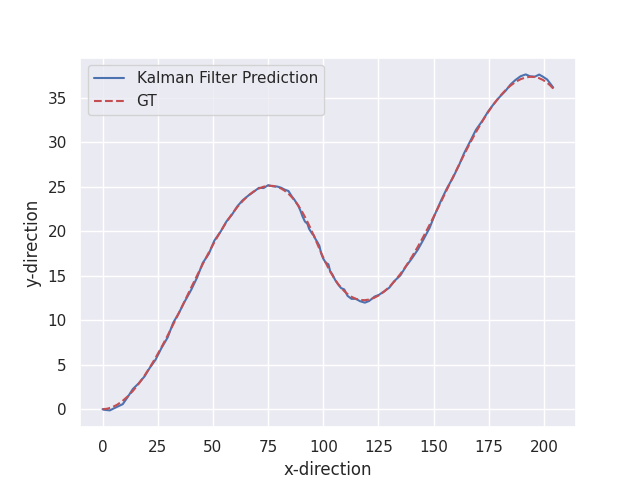
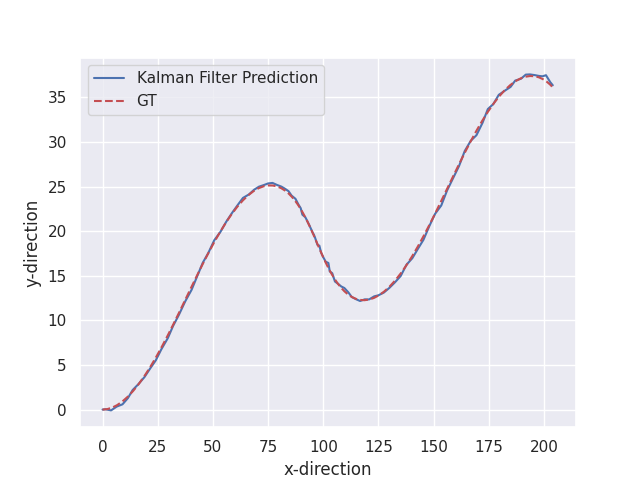
fixed error to add radar measurement [only applicable in python version]

diff --git a/main.py b/main.py
@@ -41,18 +41,18 @@ def main():
     print("*" * 80)
     print("LiDAR and RADAR observation have length:", len(lidar_states))
 
-    measurements = radar_states
-    observations = lidar_states
+    # measurements = radar_states
+    # observations = lidar_states
     
-    x_0 = utils.radar_obj_to_arry(measurements[0])
+    x_0 = utils.radar_obj_to_arry(radar_states[0])
     predictions = [x_0]
 
     # State covariance matrix
     P = np.array([
                 [0.025, 0, 0, 0],
                 [0, 0.025, 0, 0],
-                [0, 0, 5, 0],
-                [0, 0, 0, 5]
+                [0, 0, 1, 0],
+                [0, 0, 0, 1]
                 ])
     # Transition matrix
     A = np.array([
@@ -62,17 +62,19 @@ def main():
             [0, 0, 0, 1.0]
             ])
             
-    # Measurement matrix
-    H = np.array([ 
+    # Measurement matrix (LiDAR)
+    H_lidar = np.array([ 
             [1.0, 0, 0, 0],					
             [0, 1.0, 0, 0]
             ])
 
-    # Measurement noise covariance matrix
-    R = np.array([
-            [10, 0],                     
-            [0, 10]
+    H_radar = np.identity(4)
+    # Measurement noise covariance matrix (LiDAR)
+    R_lidar = np.array([
+            [1, 0],                     
+            [0, 1]
             ])
+    R_radar = np.identity(4)
     noise_ax = 10
     noise_ay = 10
     # Process noise covariance matrix
@@ -94,16 +96,26 @@ def main():
         from kalman_filter import KalmanFilter
 
     kf = KalmanFilter()
-    kf.setMetrices(x_0, P, A, Q, R, H)
+    kf.setMetrices(x_0, P, A, Q, H_lidar, H_radar, R_radar, R_lidar)
 
-    for i in range(1, len(measurements)):
-
+    for i in range(1, len(radar_states)):
+        # Prediction step
         kf.predict()
-        
-        observation = utils.lidar_obj_to_arry(observations[i])
-        kf.update(observation)
-
+        # Alternate radar and lidar measurement step
+        if i%2 == 1:
+            measurement = utils.radar_obj_to_arry(radar_states[i])
+            print("Making update using RADAR measurement: ", measurement)
+            kf.update(measurement, lidar=False)
+            print(i)
+        elif i%2 == 0:
+            measurement = utils.lidar_obj_to_arry(lidar_states[i])
+            print("Making update using LiDAR measurement: ", measurement)
+            kf.update(measurement, lidar=True)
+            print(i)
+        else:
+            print("not used")
         prediction = kf.getX()
+        print("Prediction is: ", prediction)
         predictions.append(prediction)
     
     predictions = np.concatenate(predictions).reshape(-1, 4)

diff --git a/kalman_filter.py b/kalman_filter.py
@@ -7,14 +7,18 @@ class KalmanFilter(object):
         pass
 
     def setMetrices(self, x_0: np.array, P : np.array, A: np.array,\
-                     Q: np.array , R: np.array, H: np.array) -> None:
+                     Q: np.array, H_lidar: np.array, H_radar: np.array,\
+                     R_radar: np.array, R_lidar: np.array) -> None:
         # Setting different matricies
         self.P = P
         self.A = A
-        self.H = H
+        self.H_lidar = H_lidar
+        self.H_radar = H_radar
+        self.R_lidar = R_lidar
+        self.R_radar = R_radar
+        
         self.I = np.identity(4)
         self.x = x_0
-        self.R = R
         self.Q = Q
         
     def predict(self) -> None:
@@ -22,14 +26,21 @@ class KalmanFilter(object):
         self.x = self.A @ self.x
         self.P = (self.A @ self.P @ self.A.T) + self.Q
     
-    def update(self, z: np.array) -> None:
+    def update(self, z: np.array, lidar: bool) -> None:
         # Update Step
-        Y = z - self.H @ self.x
-        S = self.R + (self.H @ self.P @ self.H.T)
-        K = self.P @ self.H.T @ np.linalg.inv(S)
+        if lidar:
+            H = self.H_lidar
+            R = self.R_lidar
+        else:
+            H = self.H_radar
+            R = self.R_radar
+            
+        Y = z - H @ self.x
+        S = R + (H @ self.P @ H.T)
+        K = self.P @ H.T @ np.linalg.inv(S)
 
         self.x = self.x + (K @ Y)
-        self.P = (self.I - K @ self.H) @ self.P
+        self.P = (self.I - K @ H) @ self.P
         
     def getX(self) -> np.array:
         # Getting new state
